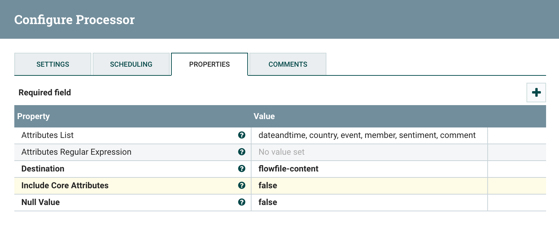
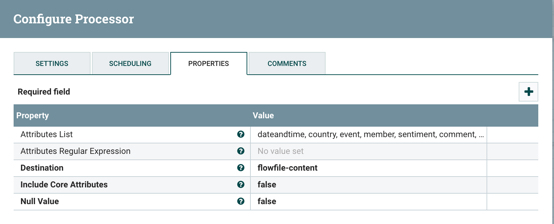
Updates for deployment on Cloud

diff --git a/README.md b/README.md
@@ -57,21 +57,7 @@ To prepare the environment:
 
 ## Accessing the sandbox
 
-### Add an alias to your hosts file
-
-On Mac OS X, open a terminal and vi /etc/hosts
-
-On Windows, open C:\Windows\System32\drivers\etc\hosts
-
-Add a new line to the existing
-
-```xx.xx.xx.xx	demo.cloudera.com```
-
-Replacing the ip (xx.xx.xx.xx) address with the one provided by Cloudera during the workshop. If you are launching this in your own private AWS instance, then this would be the public IP for this instance. 
-
 ### SSH to the sandbox
-
-You would need to download the pem file, to be able to ssh to your instance. The .pem file (Mac) is available [here](https://rajat-cloudera-bigdatalab.s3-ap-southeast-1.amazonaws.com/sg-cdf-cdp-cdsw-workshop.pem) and the ppk (Windows) is [here](https://rajat-cloudera-bigdatalab.s3-ap-southeast-1.amazonaws.com/sg-cdf-cdp-cdsw-workshop.ppk)
 
 If you are using mac, then open terminal and navigate to the directory where you have downloaded this file and execute the following:
 
@@ -89,6 +75,16 @@ On Windows use [putty](https://www.chiark.greenend.org.uk/~sgtatham/putty/latest
 
 ![Image of Putty ssh](./images/putty2.jpg)
 
+
+
+**Important: Before you start with the lab exercises, and if you are using AWS/Azure/Google instance for running this OneNodeCluster, then please ensure that you have opened the following ports (inbound) to your laptop IP.** 
+
+```
+80, 8080, 9999, 22, 7180, 7788, 9991, 10080, 18080
+```
+
+**Some of these ports are also being used by the services to interoperate. Please ensure that you have also opened these ports towards (inbound) your PUBLIC_IP of the instance, in addition to your laptop. If you are doing this in a Cloudera workshop conducted by a Solutions Architect, then this would be addressed by the instructor.** 
+
 [Back to Index](#content)
 
 --
@@ -97,15 +93,15 @@ On Windows use [putty](https://www.chiark.greenend.org.uk/~sgtatham/putty/latest
 
 The following services are going to be installed, but initially only Cloudera Manager would be accessible as by default all services would be in shutdown state. 
 
-- [Cloudera Manager](http://demo.cloudera.com:7180) : 7180
-- [NiFi](http://demo.cloudera.com:8080/nifi) : 8080/nifi
-- [NiFi Registry](http://demo.cloudera.com:18080/nifi-registry) : 18080/nifi-registry
-- [Hue](http://demo.cloudera.com:8888) : 8888
+- Cloudera Manager : http://YOUR_PUBLIC_IP:7180
+- NiFI : http://YOUR_PUBLIC_IP:8080/nifi
+- NiFi Registry: http://YOUR_PUBLIC_IP:18080/nifi-registry
+- Schema Registry: http://YOUR_PUBLIC_IP:7788/
+- Streams Messaging Manager: http://YOUR_PUBLIC_IP:9991/
+- HUE: http://YOUR_PUBLIC_IP:8888
 - CDSW : cdsw.'public-ip of aws instance'.nip.io
 
-Login to [Cloudera Manager](http://demo.cloudera.com:7180) with username/password ```admin/admin```, and familiarize yourself with all the services installed.  For the first startup, especially for CDSW, it could take up to 20 mins. 
-
-**Note: If you are unable to modify your hosts file due to security/other concerns, then you will need to use the Amazon Public IP (provided by Cloudera) whereever you see a reference of demo.cloudera.com.**
+Login to **Cloudera Manager** with username/password ```admin/admin```, and familiarize yourself with all the services installed.  For the first startup, especially for CDSW, it could take up to 20 mins. 
 
 **After a successful startup, all services would be showing a green tick.**
 
@@ -150,11 +146,6 @@ To start the NLP Engine Server, execute the following script:
 
 	$ ./start_nlp_engine.sh
 
-**Reference:** This starts the server by executing the following command:
-
-	cd stanford-corenlp-full-2018-10-05
-	java -mx1g -cp "*" edu.stanford.nlp.pipeline.StanfordCoreNLPServer -port 9999 -timeout 15000 </dev/null &>/dev/null &
-
 
 Details on the corenlp server are available here [Stanford NLP](https://stanfordnlp.github.io/CoreNLP/corenlp-server.html)
 
@@ -188,7 +179,7 @@ To do that we need to score each comment's content against the Stanford CoreNLP'
 
 In real-world use case we would probably filter by event of our interest but for the sake of this workshop we won't and assume all comments are given for the same event: the famous CDF workshop!
 
-Let's get started... Open [NiFi UI](http://demo.cloudera.com:9090/nifi/) and follow the steps below:
+Let's get started... Open the **NiFi UI** and follow the steps below:
 
 - **Step 1: Adding a Processor Group**
 	- Drag the Processor Group to the Canvas and give it a name 'CDF Workshop'. 
@@ -198,7 +189,7 @@ Let's get started... Open [NiFi UI](http://demo.cloudera.com:9090/nifi/) and fol
 	![Add Processor Group](./images/cdf_01.jpg)
 
 - **Step 2: Enabling Nifi Registry**
-	- Open the [Nifi Registry portal](http://demo.cloudera.com:18080/nifi-registry)
+	- Open the **NiFi Registry** Portal
 	
 	![Nifi Registry](./images/cdf_nifi_registry_a.jpg)
 	
@@ -252,8 +243,7 @@ Let's get started... Open [NiFi UI](http://demo.cloudera.com:9090/nifi/) and fol
  	 - Enable the controller service (click on the thunder icon) and close the window
  	 - Apply changes
 
- 	 ![ConnectWebSocket Configuration](./images/cdf_websocket_c.jpg) 
- 	 
+![ConnectWebSocket Configuration](./images/cdf_websocket_c.jpg) 
 - **Step 4: Add an UpdateAttribute connector to the canvas**
 	- Double click to open the processor. 
 	- On properties tab add new property mime.type clicking on + icon and give the value ```application/json```. This will tell the next processor that the messages sent by the Meetup WebSocket is in JSON format.
@@ -355,7 +345,7 @@ Let's get started... Open [NiFi UI](http://demo.cloudera.com:9090/nifi/) and fol
 
   https://raw.githubusercontent.com/rajatrakesh/CDF-CDH-Workshop/master/sentiment.avsc
 
-- Access Schema Registry at: YOUR_PUBLIC_IP:7788
+- Access Schema Registry at: http://YOUR_PUBLIC_IP:7788
 
 - In the Schema Registry UI, click the + sign to register a new schema.
 
@@ -417,8 +407,6 @@ Let's get started... Open [NiFi UI](http://demo.cloudera.com:9090/nifi/) and fol
 - If you have setup all services, the Controller Services screen for the Process Group would look as follows:
 
   ![](./images/nifi_schema_registry_e.jpg)
-
-
 
 ## Using Streams Messaging Manager (SMM) to create and manage Kafka Topics
 
@@ -485,16 +473,12 @@ Go back to [NiFi UI](http://demo.cloudera.com:9090/nifi/) and follow the steps b
   - Add InvokeHTTP processor and link from ReplaceText on **success** relationship
   - Double click on processor and check all relationships except **Response** on settings tab
   - Go to properties tab and set value for **HTTP Method** to **POST**
-  - Set **Remote URL** with value: ```http://yourpublicip:9999/?properties=%7B%22annotators%22%3A%22sentiment%22%2C%22outputFormat%22%3A%22json%22%7D``` which is the url encoded value for ```http://yourpublicip:9999/?properties={"annotators":"sentiment","outputFormat":"json"}```
-  - **Make sure you have used the encoded URL and that you have replaced 'yourpublicip' with your actual IP**
+  - Set **Remote URL** with value: ```http://YOUR_PUBLIC_IP:9999/?properties=%7B%22annotators%22%3A%22sentiment%22%2C%22outputFormat%22%3A%22json%22%7D``` 
+  - **Make sure you have used the encoded URL and that you have replaced 'YOUR_PUBLIC_IP' with your actual IP**
   - Set **Content-Type** to ```application/x-www-form-urlencoded```
   - Apply changes
 
 ![Link Processor](./images/cdf_invokehttp.jpg)
-
-**Important: In case you experience issues with this processor (during execution), you may need to open the port 9999 in your security groups since you are accessing this service. Your AWS security group would look something like below:
-
-![Link Processor](./images/aws_security_group.jpg)
 
 - **Step 4: Add EvalueJsonPath processor to process sentiment**
   - Add EvaluateJsonPath to the canvas and link from InvokeHTTP on **Response** relationship
@@ -509,7 +493,8 @@ Go back to [NiFi UI](http://demo.cloudera.com:9090/nifi/) and follow the steps b
 
 - **Step 5: Format time [ISO format](https://en.wikipedia.org/wiki/ISO_8601) with UpdateAttribute processor (future use for time based analytics)**
   - Add UpdateAttribute processor and link from EvaluateJsonPath on **matched** relationship
-  - Using handy [NiFi's language expression](https://nifi.apache.org/docs/nifi-docs/html/expression-language-guide.html#dates), add a new attribue ```dateandtime``` with value: ```${timestamp:format("yyyy-MM-dd'T'HH:mm:ss'Z'", "Asia/Singapore")}``` to properties tab
+  - Using handy [NiFi's language expression](https://nifi.apache.org/docs/nifi-docs/html/expression-language-guide.html#dates), add a new attribue ```dateandtime``` with value: ```${timestamp:format("yyyy-MM-dd'T'HH:mm:ss'Z'", "Asia/Singapore")}``` to properties tab.
+  - Add another property `message_id` with value: `${uuid}`
 
 ![Link Processor](./images/cdf_updateattribute.jpg)
 
@@ -519,7 +504,7 @@ Go back to [NiFi UI](http://demo.cloudera.com:9090/nifi/) and follow the steps b
   - Double click on processor
   - On settings tab, check **failure** relationship
   - Go to properties tab
-  - In the Attributes List value set ```dateandtime, country, event, member, sentiment, comment```. We will match this structure later in the table that we will create in Kudu.
+  - In the Attributes List value set `dateandtime, country, event, member, sentiment, comment, message_id`. We will match this structure later in the table that we will create in Kudu.
   - Change Destination to **flowfile-content**
   - Set Include Core Attributes to **false**
   - Apply changes
